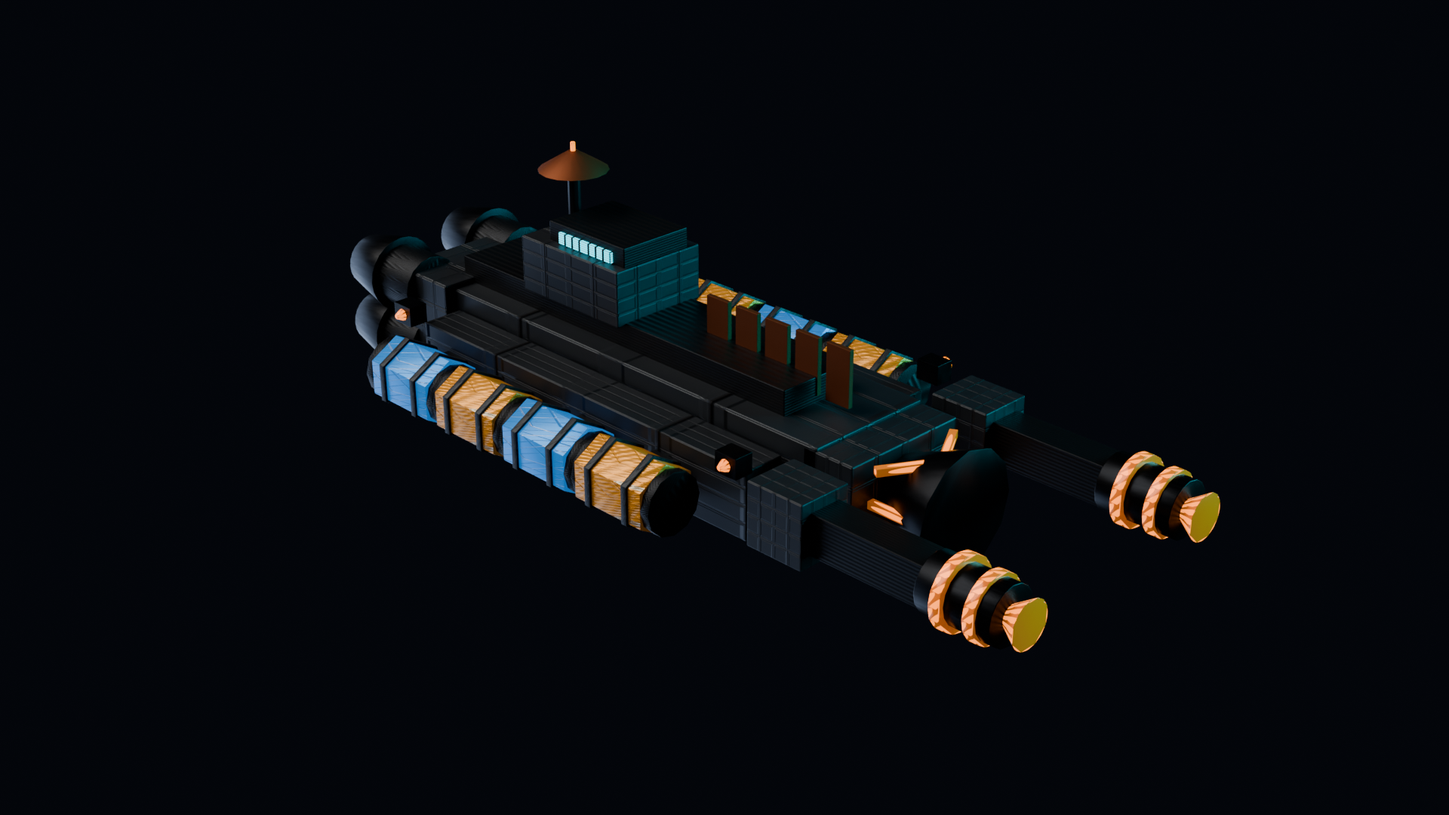
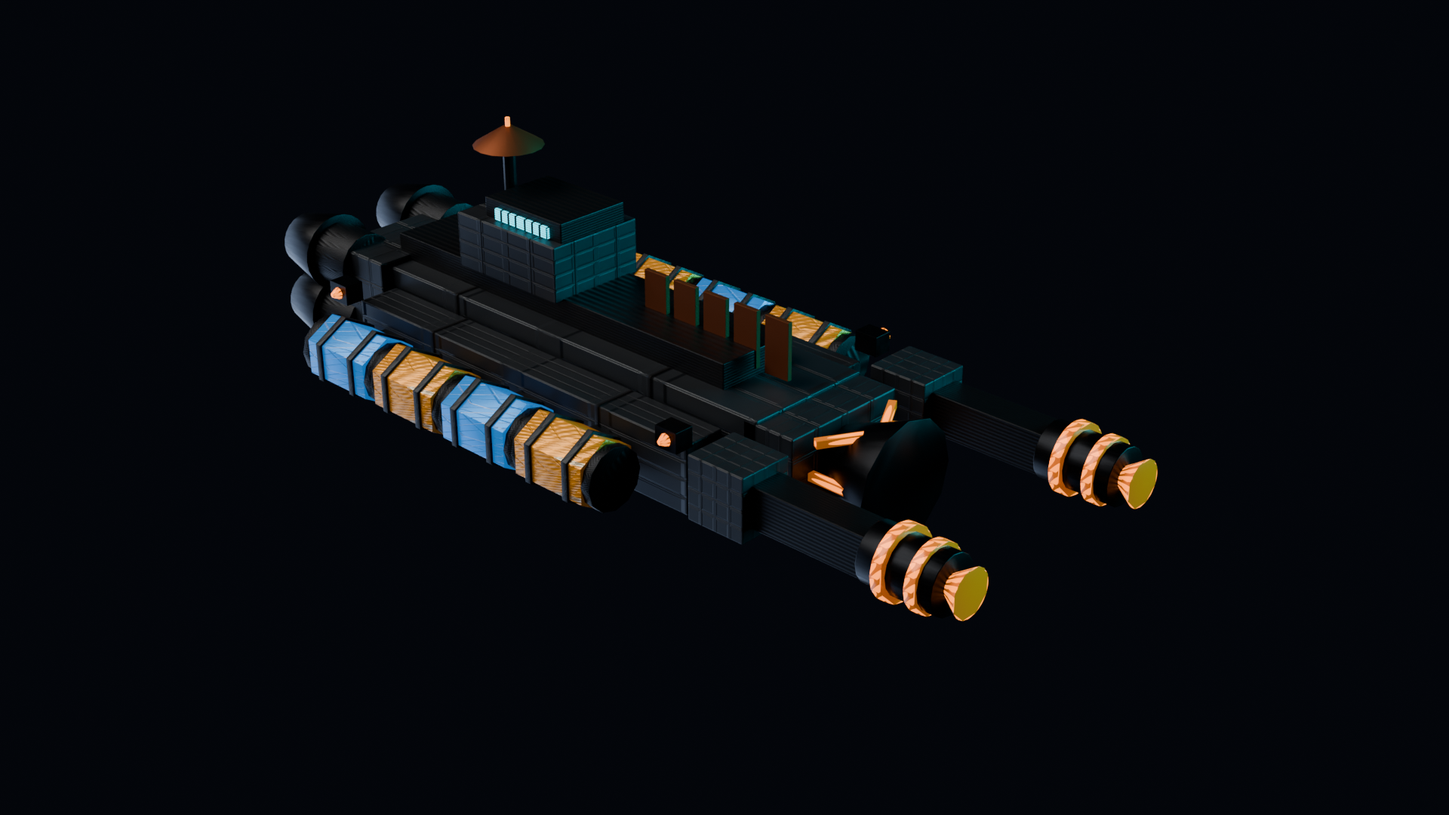
feat(ship): put the mining dreadnought on the fleet axis and register it as hull 4
The dreadnought generator authored +Y forward / +Z up while dart, shuttle,
ring_ship and warp_ship all carry their length on the OBJ Z axis, so the hull
would have stood on its tail the moment anyone wired it in - and nothing wired
it in at all: no scene load, no docs, no selector entry.

- tip the joined mesh once before export and normalize to the fleet 2.30
  length (measured X=0.94 Y=0.82 Z=2.30, nose on -Z); undo the tip for the
  showcase pass so the hero shot keeps the author's camera
- register style 4 in the scene renderer, both hull pickers and the warp role
  (warp-capable, most inertial handling in the fleet)
- replace the hardcoded style clamp and the two duplicated four-entry UI arrays
  with ship::kShipStyleCount / ship::kShipStyleNames in Types.h
- emit a ship_dreadnought.png hero frame from the screenshot harness so an axis
  regression is visible in one image
- document the hull in README and add six static checks for the wiring

Refs #195

Changed region(s): [[0.1875, 0.1528, 0.8438, 0.7944], [0.4062, 0.4278, 0.4375, 0.4583], [0.375, 0.3972, 0.4062, 0.4278]]

diff --git a/src/AppGL.cpp b/src/AppGL.cpp
@@ -11365,9 +11365,11 @@ void AppGL::drawMenu() {
         if (ImGui::BeginTabItem(uiRu("Корабль", "Ship"))) {
           ImGui::Spacing();
           ImGui::SeparatorText(uiRu("Корпус и двигатели", "Ship"));
-          const char* hullNames[] = {"Dart", "Ring Ship", "Shuttle", "Model (OBJ)"};
+          const char* hullNames[] = {ship::kShipStyleNames[0], ship::kShipStyleNames[1],
+                                     ship::kShipStyleNames[2], ship::kShipStyleNames[3],
+                                     ship::kShipStyleNames[4]};
           int hullSel = m_shipStyle;
-          if (ImGui::Combo("Hull", &hullSel, hullNames, 4)) {
+          if (ImGui::Combo("Hull", &hullSel, hullNames, ship::kShipStyleCount)) {
             setShipStyleNow(hullSel);
           }
           const char* engineNames[] = {"Red", "Ion", "Emerald", "Plasma"};
@@ -14300,6 +14302,30 @@ int AppGL::captureAllScreenshots(const std::string& outDir, bool diskOn) {
         std::cout << "Captured screenshot: " << ringFile << "\n";
       }
     }
+    // Mining Dreadnought (style 4): тот же близкий ракурс, отдельный кадр
+    // ship_dreadnought.png. Снимок заодно ловит регрессию осей из #195 - если
+    // корпус снова встанет на хвост, в кадре это видно сразу.
+    {
+      warpdrive::setShipStyle(4);
+      const Vec3 cam = app.m_camera.position;
+      warpdrive::setShip(true, static_cast<float>(cam.x) + 0.52f,
+                         static_cast<float>(cam.y) - 0.40f,
+                         static_cast<float>(cam.z) - 3.6f, 2.35f);
+      for (int frame = 0; frame < 6; ++frame) {
+        app.m_sceneManager->render(app.m_camera, fbWidth, fbHeight, 1.0f);
+        ImGui_ImplOpenGL3_NewFrame();
+        ImGui_ImplGlfw_NewFrame();
+        ImGui::NewFrame();
+        ImGui::Render();
+        ImGui_ImplOpenGL3_RenderDrawData(ImGui::GetDrawData());
+        app.m_window->swapBuffers();
+        app.m_window->pollEvents();
+      }
+      std::string dreadFile = outDir + "/ship_dreadnought.png";
+      if (app.saveScreenshot(dreadFile)) {
+        std::cout << "Captured screenshot: " << dreadFile << "\n";
+      }
+    }
     warpdrive::setShip(false, 0.0f, 0.0f, 0.0f, 0.0f);
     warpdrive::setShipStyle(styleBackup);
     warpdrive::setShipHull(1.0f);
@@ -14613,7 +14639,7 @@ void AppGL::disengageWarp() {
 }
 
 void AppGL::setShipStyleNow(int style) {
-  m_shipStyle = std::min(std::max(style, 0), 3);
+  m_shipStyle = std::min(std::max(style, 0), ship::kShipStyleCount - 1);
   m_pendingShipStyle = m_shipStyle;
   m_shipSwitchTimer = 0.0f;
   m_shipCustomization.style = m_shipStyle;
@@ -15257,11 +15283,13 @@ void AppGL::drawWarpPanel() {
       (m_warpStatus == 1 && curSt && curSt->id != tgtId && warpCap);
   // Выбор корпуса корабля (смена вида).
   {
-  const char* hullNames[] = {"Dart", "Ring Ship", "Shuttle", "Model (OBJ)"};
+  const char* hullNames[] = {ship::kShipStyleNames[0], ship::kShipStyleNames[1],
+                             ship::kShipStyleNames[2], ship::kShipStyleNames[3],
+                             ship::kShipStyleNames[4]};
   int hullSel = m_shipStyle;
   ImGui::SetNextItemWidth(ImGui::GetContentRegionAvail().x);
   if (ImGui::BeginCombo("Hull", hullNames[hullSel])) {
-    for (int n = 0; n < 4; ++n) {
+    for (int n = 0; n < ship::kShipStyleCount; ++n) {
       const bool sel = (n == hullSel);
       if (ImGui::Selectable(hullNames[n], sel)) {
         setShipStyleNow(n);

diff --git a/blender/scripts/generate_mining_dreadnought.py b/blender/scripts/generate_mining_dreadnought.py
@@ -148,7 +148,9 @@ def add_hex_pod(center, radius, length, slot=2):
 
 def build_mining_dreadnought():
     """Assembles all industrial components of the mining dreadnought."""
-    # Coordinates convention: +Y is Forward, +Z is Up, +X is Starboard (Right)
+    # Coordinates convention *inside this builder*: +Y is Forward, +Z is Up,
+    # +X is Starboard (Right). main() tips the joined hull onto the fleet
+    # convention (-Z nose, +Y up, X spanwise) before export - see #195.
     
     # -------------------------------------------------------------
     # 1. CENTRAL SPINAL HULL & HEAVY BULKHEADS
@@ -375,13 +377,26 @@ def main():
     joined = bpy.context.object
     joined.name = "MiningDreadnought"
 
-    # Normalize dimensions to target in-game scale ~4.5
+    # Normalize to the fleet length. dart, shuttle, ring_ship and warp_ship are all
+    # authored to ~2.3 in res/models and the renderer has no per-style scale, so a
+    # hull registered as style 4 has to arrive at the same size or the chase camera
+    # frames it wrong. (#195)
     bpy.ops.object.transform_apply(location=True, rotation=True, scale=True)
-    target_scale = 4.5
+    target_scale = 2.30
     max_dim = max(joined.dimensions)
     factor = target_scale / max_dim
     joined.scale = (factor, factor, factor)
     bpy.ops.object.transform_apply(scale=True)
+
+    # Fleet axis convention (#195). The other hulls in res/models put their LENGTH
+    # on the OBJ Z axis - dart, shuttle, ring_ship and warp_ship all measure ~2.3
+    # on Z and ~0.5-0.9 on Y - which is what the ship renderer's shipHullModel and
+    # SceneManager's ownUpToY both assume. This builder authored +Y forward / +Z up,
+    # so the whole hull is tipped once here: Rx(-90) sends Blender +Y (length) to -Z
+    # and Blender +Z (up) to +Y, giving generate_ships.py's "-Z is the nose, +Y up,
+    # X spanwise". Do not "fix" this per part - the tip must stay a single step.
+    joined.rotation_euler = (-math.pi / 2, 0.0, 0.0)
+    bpy.ops.object.transform_apply(rotation=True)
 
     poly_count = len(joined.data.polygons)
     print(f"Dreadnought built successfully: {poly_count} polygons, size: {target_scale}", flush=True)
@@ -404,7 +419,13 @@ def main():
         path_mode="RELATIVE",
     )
 
-    # 5. Render high-res Cycles showcase
+    # 5. Render high-res Cycles showcase. The camera above is authored for the
+    # builder's own pose (+Y forward, +Z up = Blender's Z-up world), so undo the
+    # #195 tip for the render pass only. The exported OBJ keeps the fleet frame;
+    # this is purely so the hero shot is not a ship standing on its tail.
+    joined.rotation_euler = (math.pi / 2, 0.0, 0.0)
+    bpy.ops.object.transform_apply(rotation=True)
+
     scene = bpy.context.scene
     setup_showcase_camera_and_lighting(scene, target_size=target_scale)
     render_out = OUT_DIR / f"{prefix}_showcase.png"

diff --git a/src/SceneManager.cpp b/src/SceneManager.cpp
@@ -1,5 +1,6 @@
 #include "SceneManager.h"
 #include "Constellation.h"
+#include "Types.h"  // ship::kShipStyleCount - единый список корпусов (#195)
 
 #include "GLCompat.h"
 #include "LaunchDiagnostics.h"
@@ -85,7 +86,7 @@ float shipX() { return g_shipPos[0]; }
 float shipY() { return g_shipPos[1]; }
 float shipZ() { return g_shipPos[2]; }
 float shipYaw() { return g_shipYaw; }
-void setShipStyle(int s) { g_shipStyle = (s < 0 || s > 3) ? 0 : s; }
+void setShipStyle(int s) { g_shipStyle = (s < 0 || s >= ship::kShipStyleCount) ? 0 : s; }
 void setShipCustomization(const ShipCustomization& c) { g_shipCustomization = c; }
 const ShipCustomization& shipCustomization() { return g_shipCustomization; }
 void setDockSitesVisible(bool v) { g_dockSitesVisible = v; }
@@ -2500,6 +2501,20 @@ void SceneManager::render(const Camera& camera, int fbWidth, int fbHeight, float
             if (s_ringShipModel.ready()) {
               activeModel = &s_ringShipModel;
               modelRingSpin = spinPhase;
+            }
+          } else if (style == 4) {
+            // Mining Dreadnought (тяжёлый колониальный транспорт):
+            // меш из res/models/mining_dreadnought.obj. Длина на Z, нос на -Z -
+            // та же конвенция, что у dart/shuttle/ring_ship (#195).
+            static ObjModel s_dreadnoughtModel;
+            static bool s_dreadnoughtTried = false;
+            if (!s_dreadnoughtTried) {
+              s_dreadnoughtTried = true;
+              s_dreadnoughtModel.load("res/models/mining_dreadnought.obj");
+              s_dreadnoughtModel.loadTextures("res/models/mining_dreadnought");
+            }
+            if (s_dreadnoughtModel.ready()) {
+              activeModel = &s_dreadnoughtModel;
             }
           } else if (style == 2) {
             // Shuttle explorer: меш из res/models/shuttle.obj

diff --git a/src/Types.h b/src/Types.h
@@ -112,7 +112,14 @@ inline bool canJump(const ShipState& s, float costK = 1.0f) {
 
 // v3.6.0: варп-роли корпусов. v4.0.0: варп-двигатель несут только Ring Ship
 // (1) и Model OBJ (3); Dart (0) и Shuttle (2) — досветовые корпуса.
-inline bool styleCanWarp(int style) { return style == 1 || style == 3; }
+// v5.0.6: Mining Dreadnought (4) — тяжёлый колониальный транспорт с варпом.
+// Список корпусов держится в одном месте: kShipStyleCount = 5, из него же
+// считаются оба hull-селектора, чтобы массивы и clamp не разъезжались (#195).
+constexpr int kShipStyleCount = 5;
+constexpr const char* kShipStyleNames[kShipStyleCount] = {
+    "Dart", "Ring Ship", "Shuttle", "Model (OBJ)", "Mining Dreadnought"};
+
+inline bool styleCanWarp(int style) { return style == 1 || style == 3 || style == 4; }
 
 // v4.0.0: форсаж досветовых корпусов ограничен. У Dart и Shuttle нет
 // варп-двигателя, поэтому и разгон у них «досветовый»: x1.35 / x1.20 вместо
@@ -121,6 +128,7 @@ inline float styleBoostSpeedMult(int style) {
   switch (style) {
     case 0: return 1.35f;  // Dart: лёгкий перехватчик
     case 2: return 1.20f;  // Shuttle: тяжёлый челнок
+    case 4: return 1.10f;  // Mining Dreadnought: гружёный транспортник
     default: return kBoostSpeedMultiplier;
   }
 }
@@ -129,6 +137,7 @@ inline float styleBoostRespMult(int style) {
   switch (style) {
     case 0: return 1.45f;
     case 2: return 1.30f;
+    case 4: return 1.70f;  // самый инерционный корпус флота
     default: return kBoostRespMultiplier;
   }
 }

diff --git a/src/AppGL.h b/src/AppGL.h
@@ -610,7 +610,7 @@ class AppGL {
   float jumpFuelCostK(const std::string& targetId) const;  // сложность + Казимир + конденсаторы + маяк
   float m_shieldMax = 100.0f;  // ship::shieldCapacity(boost), пересчитывается в sim
   int m_warpSel = 0;  // выбор пункта в варп-панели
-  int m_shipStyle = 0;  // корпус корабля: 0 Dart, 1 Ring Ship v2, 2 Shuttle, 3 Model (OBJ)
+  int m_shipStyle = 0;  // корпус корабля: 0 Dart, 1 Ring Ship v2, 2 Shuttle, 3 Model (OBJ), 4 Mining Dreadnought
   // === Orbital Shipyard & Station Docking (v3.11.0) ===
   bool m_shipyardOpen = false;
   int m_hubTab = 0;  // Station Hub tab: 0 Service, 1 Upgrades, 2 Hangar
@@ -862,7 +862,7 @@ float shipX();
 float shipY();
 float shipZ();
 float shipYaw();
-void setShipStyle(int s);  // 0 Dart, 1 Ring Ship (IXS), 2 Shuttle, 3 Model
+void setShipStyle(int s);  // 0 Dart, 1 Ring Ship (IXS), 2 Shuttle, 3 Model, 4 Mining Dreadnought
 // v3.11.0: кастомизация корабля (ливрея, свечение, спин колец, апгрейды)
 void setShipCustomization(const ShipCustomization& c);
 const ShipCustomization& shipCustomization();

diff --git a/src/SaveGame.h b/src/SaveGame.h
@@ -95,7 +95,7 @@ struct SaveSession {
   float fuel = 100.0f;
   float shield = 100.0f;
   float hull = 100.0f;  // v4.0.0: armor/panel integrity (0..100)
-  int shipStyle = 0;  // 0 Dart, 1 Ring, 2 Shuttle, 3 Model
+  int shipStyle = 0;  // 0 Dart, 1 Ring, 2 Shuttle, 3 Model, 4 Mining Dreadnought
   ShipCustomization custom;  // v3.11.0: кастомизация ливреи и апгрейды корабля
 };
 

diff --git a/CHANGELOG.md b/CHANGELOG.md
@@ -24,7 +24,10 @@
 - RU: Корпуса игрока пересобраны детальным проходом по референсам - Дарт вырос с 1 774 до 9 110 треугольников, Шаттл с 2 698 до 11 598. У перехватчика появились усиливающие ленты фюзеляжа, честная плитка на днище, сплиттеры и кромки воздухозаборников, двойные гондолы с веером, лепестками сопла и CTV-кольцами, предкрылки, закрылки с петлями, аэродинамические щитки и законцовки, ракеты на пилонах, рёбра фонаря с HUD, креслом и дугой безопасности, люки шахматок, кластеры РКС, питот-трубка и хвостовое кольцо; у шаттла - поле TPS-плитки со швами, сенсорный обтекатель, импосты и козырёк рубки, грузовой отсек с рельсами, контейнерами, манипулятором, швартовными болтами и полезной нагрузкой, раскрытые радиаторы с оребрением, блок из трёх главных сопел с карданными кольцами и питающими трубами плюс OMS-модули, элевон-щитки, кили носовой части, закрылок хвоста, шасси, поручни, иллюминаторы и камеры.
 - EN: Fix - the ship generators build hulls with -Z forward and +Y up, but cylinder, cone and torus primitives are born on their local Z, so the `rotation=(pi/2, 0, 0)` used for engine hardware aimed it down instead of aft. Every nozzle, nacelle, intake cowl, pitot boom, missile and ring in both the base hulls and the new detail pass was standing perpendicular to the flight direction - in the shipped Dart and Shuttle too, not only in the new geometry. All of them are now on the fore-aft axis, the dorsal airlock ring is the one part that legitimately stays vertical, and the convention is documented in the script and pinned by two new static checks (issue #189).
 - RU: Исправление - генераторы кораблей строят корпуса с носом по -Z и верхом по +Y, но примитивы Blender рождаются вдоль локальной Z, поэтому `rotation=(pi/2, 0, 0)` для двигателей разворачивал их вниз, а не назад. Сопла, гондолы, набегающие кожухи, питот-трубки, ракеты и кольца торчали перпендикулярно направлению полёта - и в выпущенных Дарте и Шаттле тоже, а не только в новой геометрии. Теперь всё это на продольной оси; вертикальным корректно остаётся только кольцо шлюза на верхней палубе; конвенция описана в скрипте и закреплена двумя новыми статическими проверками (issue #189).
+- EN: Mining Dreadnought becomes a real hull, not an orphan mesh - the generator authored it +Y forward / +Z up while dart, shuttle, ring_ship and warp_ship all put their length on the OBJ Z axis, so the hull is now tipped once before export and normalized to the fleet's 2.30 length (measured X=0.94, Y=0.82, Z=2.30 with the nose on -Z). It is selectable as style 4 in both hull pickers, carries a warp drive and the most inertial handling in the fleet (boost x1.10, recharge x1.70), and the screenshot harness emits a `ship_dreadnought.png` hero frame so an axis regression is visible in one image. The hull list now has a single source of truth (`ship::kShipStyleCount` and `ship::kShipStyleNames` in `src/Types.h`), which replaces the hardcoded `3` clamp in `warpdrive::setShipStyle` and the two duplicated four-entry UI arrays.
+- RU: Шахтёрский дредноут становится полноценным корпусом, а не брошенной меш-моделью - генератор строил его по оси +Y вперёд / +Z вверх, тогда как dart, shuttle, ring_ship и warp_ship держат длину на оси Z в OBJ, поэтому теперь корпус один раз разворачивается перед экспортом и приводится к флотской длине 2.30 (замер: X=0.94, Y=0.82, Z=2.30, нос на -Z). Он выбирается как стиль 4 в обоих списках корпусов, несёт варп-двигатель и самую инерционную управляемость во флоте (форсаж x1.10, перезарядка x1.70), а харнесс скриншотов отдаёт геройский кадр `ship_dreadnought.png`, чтобы регрессия осей была видна одной картинкой. Список корпусов получил единый источник истины (`ship::kShipStyleCount` и `ship::kShipStyleNames` в `src/Types.h`), который заменил зашитую единицу-ограничитель `3` в `warpdrive::setShipStyle` и два продублированных массива по четыре пункта в UI.
 - Gates / Гейты: MSVC Release build OK, ctest 23/23 PASS с активными `assert()`, статические проверки расширены проверками выполнения ctest в CI и снятия NDEBUG для тестовых таргетов; `--capture-colony` 4/4 PASS (structures 9/18/41/82, centre-changed 14325/71155/134416/121033), `--capture-fleet` 7/7 PASS, `--capture-menu` PASS (корабль пиксельно-статичен), плюс 3 новых статических условия на civic/коммунальные ассеты, отсечение столицы и роли атласа и 2 новых условия на осевую конвенцию корпусов (#189).
+- Gates / Гейты (интеграция дредноута, #195): MSVC Release build OK, ctest 23/23 PASS, `--capture-fleet` 7/7 PASS, `--capture-menu` PASS; шесть новых статических условий - загрузка меша в сцене, единый список стилей корпуса, варп-роль и параметры форсажа, разворот и шкала генератора, кадр `ship_dreadnought.png` в харнессе и строки документации. Все шесть вычисляются в True (локально `.ps1` по-прежнему блокируется политикой выполнения, настоящий гейт - job `Static checks` в CI).
 
 ## 5.0.5 - 2026-11-16
 

diff --git a/README.md b/README.md
@@ -233,6 +233,14 @@
       <sub>Тяжёлый исследовательский челнок, сдвоенные мотогондолы, устойчивый досветовой атмосферно-орбитальный полёт</sub>
     </td>
   </tr>
+  <tr>
+    <td width="50%" align="center">
+      <img src="docs/screens/mining_dreadnought_showcase.png" alt="Mining Dreadnought" width="100%"><br>
+      <b>Транспорт: Mining Dreadnought</b><br>
+      <sub>Тяжёлый колониальный транспортник: роторная дробилка, две плазменные стрелы с магнитными фокусирующими кольцами, стойки канистр (гелий-3, углеводороды Титана, редкоземы), радиаторы и четыре термоядерных сопла; самый инерционный корпус флота, варп-двигатель есть</sub>
+    </td>
+    <td width="50%" align="center"></td>
+  </tr>
 </table>
 
 <p align="center">
@@ -256,7 +264,7 @@
   - **Жилая центрифуга**: Плавное непрерывное вращение тора и балансировочных спиц со скоростью $\omega = 0.30\text{ рад/с}$ вдоль продольной оси для создания искусственной силы тяжести.
   - **SARJ-трекинг панелей**: Медленный синусоидальный доворот фотоэлектрических панелей ($0.06 \cdot \sin(0.05 \cdot t)$) для оптимального угла падения солнечного излучения.
 - **Стыковка (`K`)**: При сближении с орбитальной станцией (< 4.5 ед.) нажмите `[K]` для захвата доком. Скорость гасится, щиты, баки топлива и целостность корпуса мгновенно восполняются до 100%, открывается интерфейс Верфи.
-- **Ангар (Hangar)**: Мгновенное переключение активного корабля: Dart (0), Ring Ship (1), Shuttle (2), Warp Cruiser (3). Варп-двигатель несут только Ring Ship и Warp Cruiser; Dart и Shuttle — досветовые, с ограниченным форсажем.
+- **Ангар (Hangar)**: Мгновенное переключение активного корабля: Dart (0), Ring Ship (1), Shuttle (2), Warp Cruiser (3), Mining Dreadnought (4). Варп-двигатель несут Ring Ship, Warp Cruiser и Mining Dreadnought; Dart и Shuttle — досветовые, с ограниченным форсажем.
 - **Целостность корпуса**: Радиация пульсаров и обломки изнашивают обшивку, док восстанавливает её до 100%, а HUD показывает третью шкалу. Побитый/восстановленный вид корпуса сохраняется в профиле.
 - **Покрасочный цех (Paint Shop)**: Индивидуальная настройка цветов обшивки (`Hull Tint`), полос (`Accent Tint`) и свечения плазмы (`Emissive Tint`) с быстрыми пресетами (*Quantum Cyan*, *Plasma Violet*, *Solar Gold*, *Void Stealth*).
 - **Инженерные модификации**: Апгрейды форсажа маршевых двигателей (+45%), энергоемкости щитов (+37%) и гармоники варп-катушек (-36% расхода топлива на прыжок). Полное сохранение в профиль `save-sandbox.json`.
